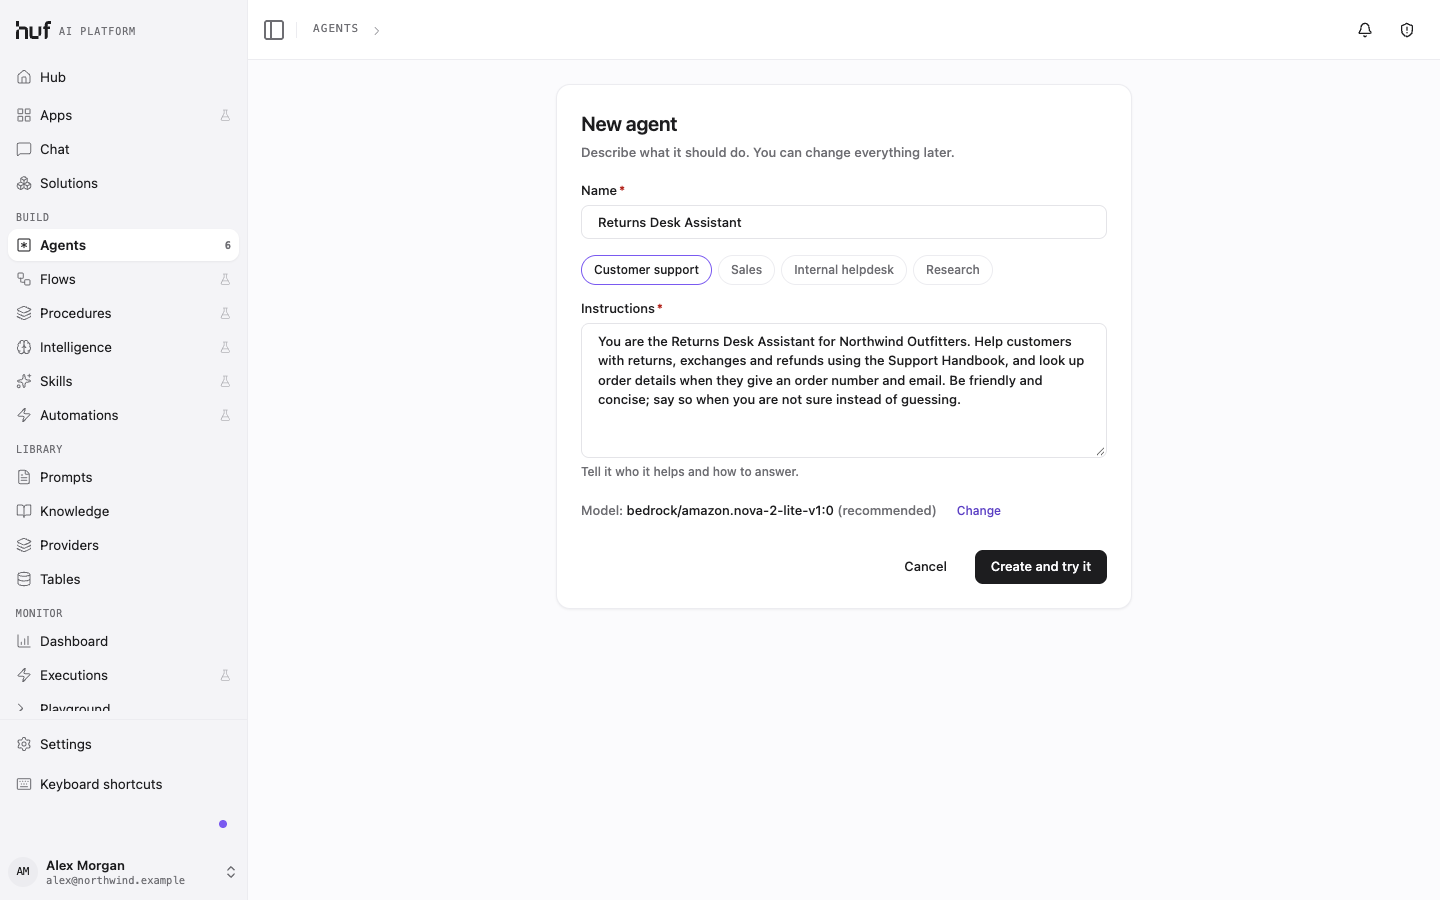
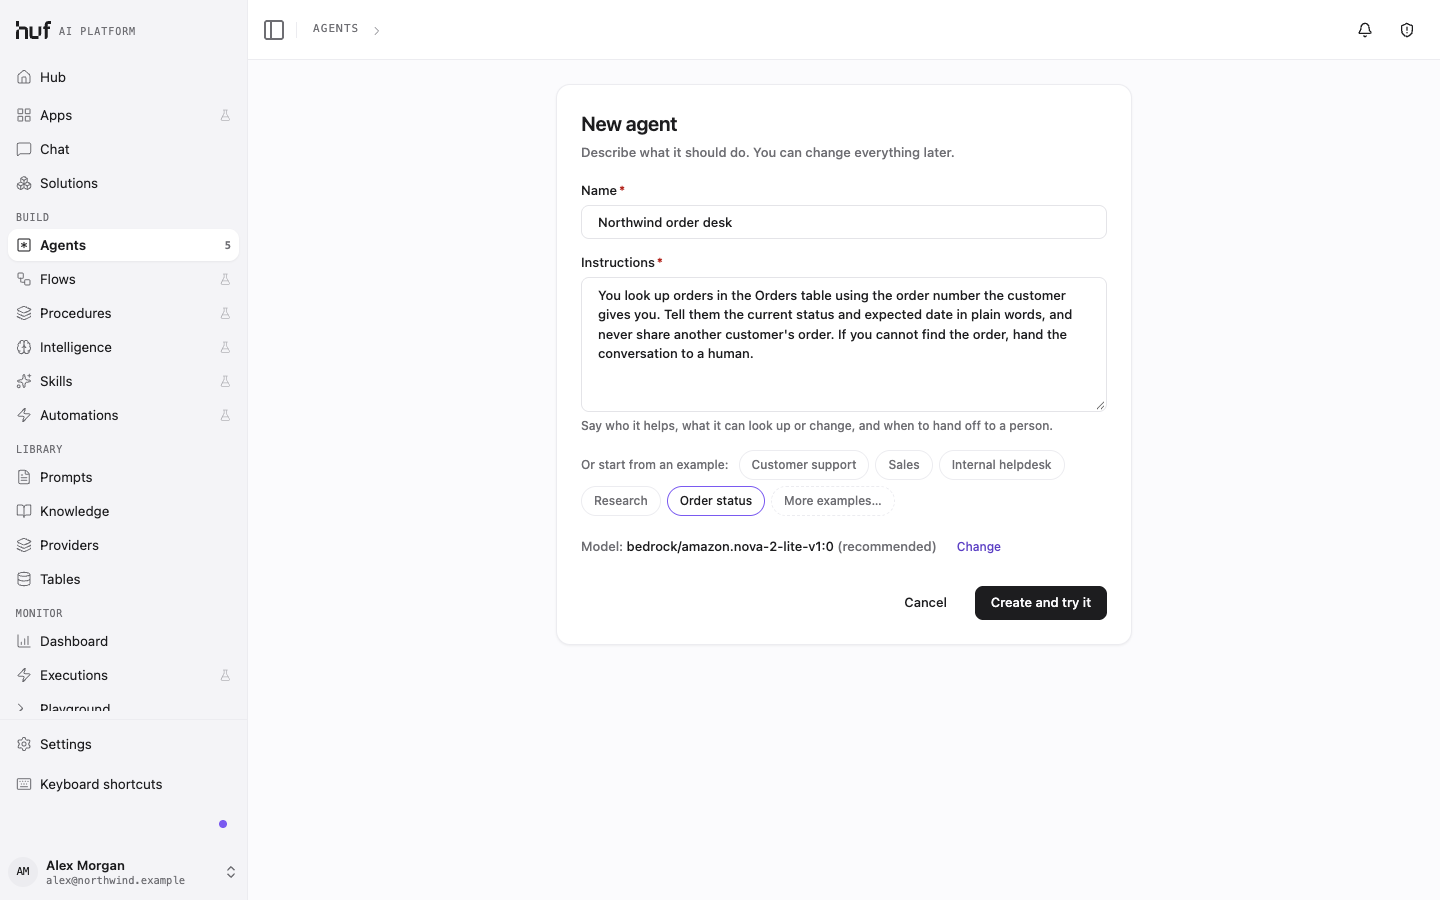
feat(agent-create): keep a gallery pick visible as a chip; refresh 05-create screenshot
Track-Item: create-examples-2

Changed region(s): [[0.4062, 0.28, 0.7812, 0.7156], [0.4062, 0.2178, 0.5, 0.2489]]

diff --git a/frontend/src/components/agent/create/AgentCreateCard.tsx b/frontend/src/components/agent/create/AgentCreateCard.tsx
@@ -84,6 +84,10 @@ export function AgentCreateCard({ onCreate, busy, onCancel, error }: Props) {
     if (!name.trim()) setName(t.label);
   };
 
+  // A non-featured pick from the gallery joins the chips so the choice stays visible.
+  const picked = AGENT_EXAMPLES.find((e) => e.id === template && !e.featured);
+  const chips = picked ? [...AGENT_TEMPLATES, picked] : AGENT_TEMPLATES;
+
   const submit = () => {
     const found: FormError[] = [];
     if (!name.trim()) found.push({ fieldId: 'agent-name', message: 'Give your agent a name' });
@@ -112,7 +116,7 @@ export function AgentCreateCard({ onCreate, busy, onCancel, error }: Props) {
           <Textarea id="agent-instructions" aria-describedby="agent-instructions-note" aria-invalid={errFor('agent-instructions') ? true : undefined} rows={6} value={instructions} onChange={(e) => setInstructions(e.target.value)}
             placeholder="Describe what this agent should do — e.g. answer order questions from our Orders table and escalate refunds over $200 to a person." />
         </Field>
-        <TemplateChips lead="Or start from an example:" label="Example agents" items={AGENT_TEMPLATES.map(toChip)}
+        <TemplateChips lead="Or start from an example:" label="Example agents" items={chips.map(toChip)}
           onPick={pick} activeId={template} onMore={() => setGallery(true)} />
         <TemplateGallery open={gallery} onOpenChange={setGallery} items={AGENT_EXAMPLES.map(toChip)} onPick={pick}
           activeId={template} title="Example agents" description="Each one fills in a name and instructions. Edit them, then connect knowledge, tables and channels after you create it." />
